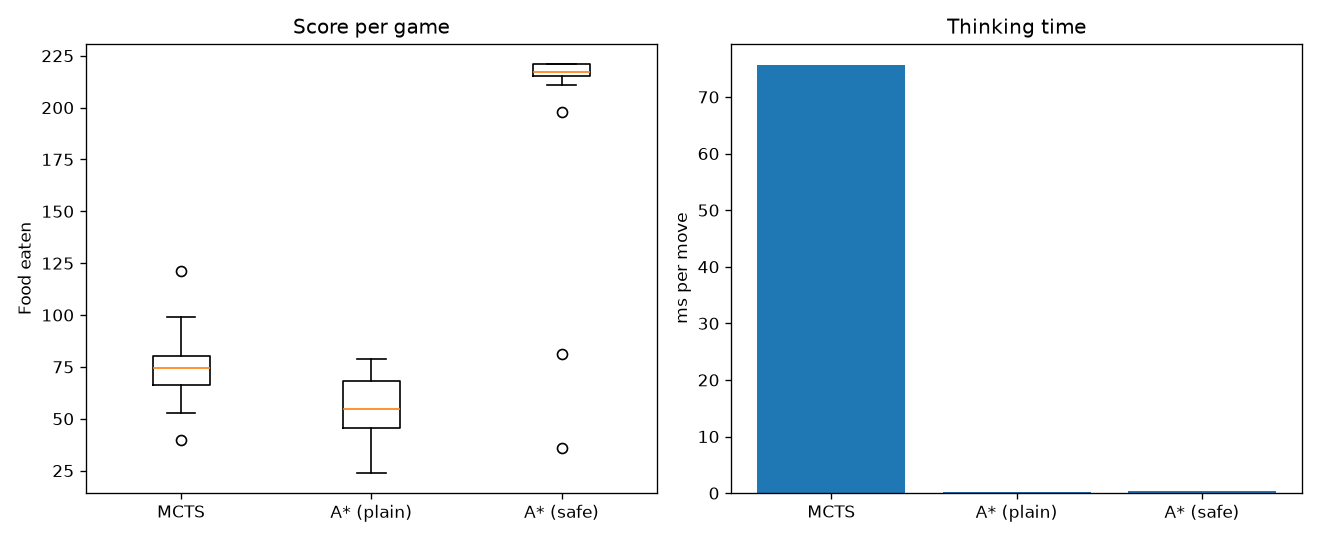
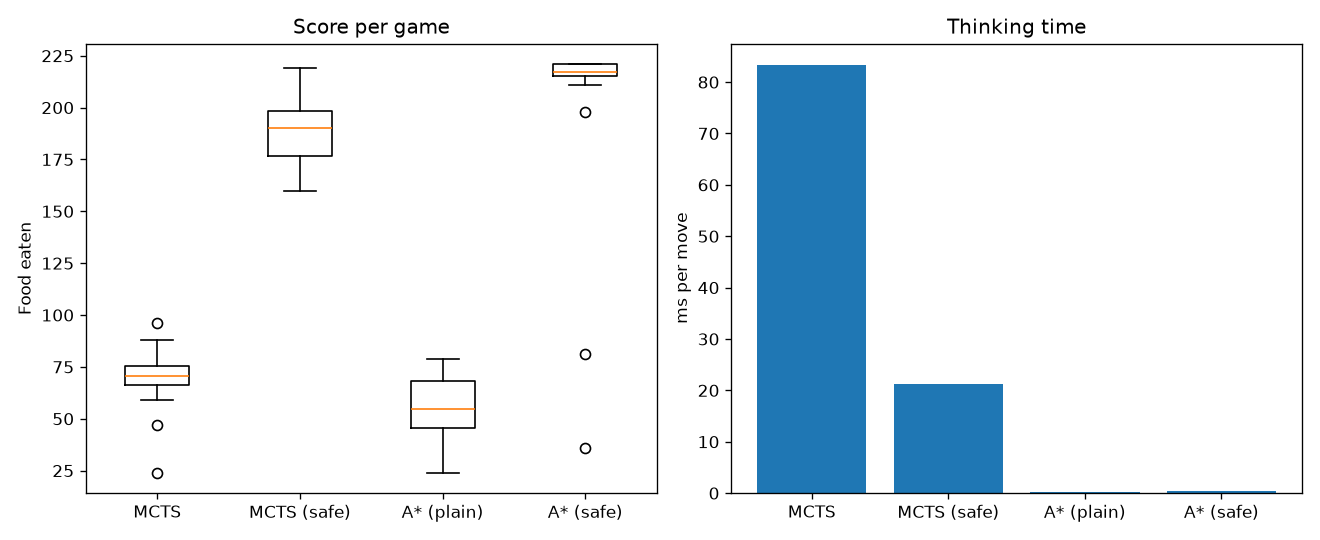
update mc safe

diff --git a/mcts.py b/mcts.py
@@ -12,6 +12,11 @@ current position and runs four phases many times:
 Food appears at random, so the tree is "open loop": nodes store statistics
 for a sequence of moves, and every iteration re-simulates that sequence from
 the root with freshly sampled food positions.
+
+Safe mode borrows the rule that makes safe A* strong: a snake whose head can
+still reach its tail can always escape by following it. With safe=True the
+agent only searches moves that keep the tail reachable (when any exist), and
+rollouts that end with the tail unreachable are penalised.
 """
 
 import math
@@ -140,7 +145,8 @@ class Node:
 
 class MCTSAgent:
     def __init__(self, iterations=300, time_limit=None, rollout_depth=30,
-                 exploration=1.0, gamma=0.97, seed=None):
+                 exploration=1.0, gamma=0.97, seed=None, safe=False):
+        self.safe = safe
         self.iterations = iterations
         self.time_limit = time_limit  # Seconds per move; stops early if reached before `iterations`.
         self.rollout_depth = rollout_depth
@@ -151,19 +157,31 @@ class MCTSAgent:
     def choose_action(self, game):
         root_state = SnakeState.from_game(game, self.rng)
         safe = [a for a in root_state.legal_actions() if root_state.is_safe(a)]
+        if self.safe:
+            # Keep only moves after which the head can still reach the tail, if there are any.
+            safe = [a for a in safe if self._tail_reachable_after(root_state, a)] or safe
         if len(safe) <= 1:
             return safe[0] if safe else root_state.direction
 
         root = Node()
         deadline = time.perf_counter() + self.time_limit if self.time_limit else None
         for _ in range(self.iterations):
-            self._iterate(root, root_state)
+            self._iterate(root, root_state, safe)
             if deadline and time.perf_counter() >= deadline:
                 break
 
         return max(root.children, key=lambda a: root.children[a].visits)
 
-    def _iterate(self, root, root_state):
+    @staticmethod
+    def _tail_reachable_after(state, action):
+        from astar import tail_reachable  # Imported here because astar.py imports this module.
+
+        nxt = state.next_head(action)
+        body = list(state.snake)
+        body = [nxt] + (body if nxt == state.food else body[:-1])
+        return tail_reachable(body, state.board_size)
+
+    def _iterate(self, root, root_state, root_actions):
         state = root_state.copy()
         node = root
         path = [root]
@@ -172,7 +190,7 @@ class MCTSAgent:
 
         # 1. Selection + 2. Expansion
         while state.alive:
-            actions = state.legal_actions()
+            actions = root_actions if node is root else state.legal_actions()
             untried = [a for a in actions if a not in node.children]
             if untried:
                 action = self.rng.choice(untried)
@@ -244,5 +262,9 @@ class MCTSAgent:
         food_r, food_c = state.food
         closeness = 1.0 - (abs(head_r - food_r) + abs(head_c - food_c)) / (2 * n)
         # Heavily penalise positions where the snake has boxed itself in.
-        trapped = -0.5 if state.reachable_area() < len(state.snake) else 0.0
+        if self.safe:
+            from astar import tail_reachable
+            trapped = 0.0 if tail_reachable(list(state.snake), n) else -0.5
+        else:
+            trapped = -0.5 if state.reachable_area() < len(state.snake) else 0.0
         return 0.3 * closeness + trapped

diff --git a/snake_game.py b/snake_game.py
@@ -272,9 +272,10 @@ def play_game(agent, seed, board_size=15):
 
 
 def make_agent(name, seed=None, iterations=300, time_limit=None, rollout_depth=30):
-    if name == "mcts":
+    if name in ("mcts", "mcts-safe"):
         from mcts import MCTSAgent
-        return MCTSAgent(iterations=iterations, time_limit=time_limit, rollout_depth=rollout_depth, seed=seed)
+        return MCTSAgent(iterations=iterations, time_limit=time_limit, rollout_depth=rollout_depth, seed=seed,
+                         safe=(name == "mcts-safe"))
     from astar import AStarAgent
     return AStarAgent(safe=(name == "astar-safe"))
 
@@ -295,8 +296,9 @@ if __name__ == "__main__":
     import time
 
     parser = argparse.ArgumentParser(description="Snake game controlled by Monte Carlo Tree Search or A*.")
-    parser.add_argument("--agent", choices=["mcts", "astar", "astar-safe"], default="mcts",
-                        help="mcts: Monte Carlo Tree Search, astar: plain A*, astar-safe: A* that checks it can reach its tail.")
+    parser.add_argument("--agent", choices=["mcts", "mcts-safe", "astar", "astar-safe"], default="mcts",
+                        help="mcts: Monte Carlo Tree Search, astar: plain A*, "
+                             "*-safe: only make moves after which the snake can still reach its tail.")
     parser.add_argument("--iterations", type=int, default=300, help="MCTS iterations per move.")
     parser.add_argument("--time-limit", type=float, default=0.2, help="Max thinking time per move in seconds (0 = no limit).")
     parser.add_argument("--rollout-depth", type=int, default=30, help="Steps simulated in each rollout.")

diff --git a/compare.py b/compare.py
@@ -15,7 +15,7 @@ from concurrent.futures import ProcessPoolExecutor
 
 from snake_game import make_agent, play_game
 
-AGENT_LABELS = {"mcts": "MCTS", "astar": "A* (plain)", "astar-safe": "A* (safe)"}
+AGENT_LABELS = {"mcts": "MCTS", "mcts-safe": "MCTS (safe)", "astar": "A* (plain)", "astar-safe": "A* (safe)"}
 
 
 def run_one(job):

diff --git a/README.md b/README.md
@@ -13,7 +13,9 @@ Author : Po Kai Su
 The snake is controlled by a search algorithm instead of a human, and we compare two of them:
 
 - **Monte Carlo Tree Search (MCTS)** – before every move, simulate many possible futures (including where food might appear) and pick the move that leads to the best outcomes on average.
-- **A\* search** – plan the shortest path to the food and follow it, in a plain and a "safe" variant.
+- **A\* search** – plan the shortest path to the food and follow it.
+
+Each comes in a plain and a **safe** variant. Safe mode adds one rule: never make a move after which the snake's head can no longer reach its own tail.
 
 This project grew out of our earlier final project, where the snake was controlled by body posture captured with a webcam (Mediapipe + an MLP classifier). Here the webcam is replaced by search algorithms.
 
@@ -21,7 +23,7 @@ This project grew out of our earlier final project, where the snake was controll
 | File | Description |
 | --- | --- |
 | [snake_game.py](snake_game.py) | The game (pygame) and the entry point for watching an agent play |
-| [mcts.py](mcts.py) | Monte Carlo Tree Search agent, plus the fast game simulator it uses |
+| [mcts.py](mcts.py) | Monte Carlo Tree Search agent (plain and safe), plus the fast game simulator it uses |
 | [astar.py](astar.py) | A\* agent, plain and safe variants |
 | [compare.py](compare.py) | Runs every agent on the same games and prints a results table |
 | `image/`, `sound/` | Game graphics and sound effects |
@@ -39,6 +41,10 @@ The move whose node was visited most is played.
 Rewards: +1 for eating food, −1 for dying, discounted by 0.97 per step. If a rollout ends with the snake still alive, the position is scored by how close the head is to the food, and penalised if a flood fill shows the snake has trapped itself in a space smaller than its own length.
 
 Food appears at random, so the tree is *open-loop*: each node keeps statistics for a sequence of moves, and every iteration replays that sequence with newly sampled food.
+
+**MCTS (safe)** adds the tail rule from safe A\* in two places:
+1. **Before searching**, it removes every move after which the head can no longer reach the tail (if at least one move is left), so the tree only explores safe first moves. If only one safe move remains, it is played without searching.
+2. **When a rollout ends**, the position is penalised if the head cannot reach the tail. This replaces the flood-fill check, which only counts free cells and can miss traps.
 
 ### How A* chooses a move
 The A\* agent ([astar.py](astar.py)) finds the shortest path from the head to the food, with cost = steps taken and heuristic = Manhattan distance. The search is time-aware: the body segment `k` cells behind the head leaves its cell after `len(snake) - k` steps, so a path may go through cells the tail will have vacated by the time the head gets there.
@@ -64,6 +70,9 @@ Watch an agent play (click **START THE GAME**):
 python snake_game.py --agent mcts
 ```
 ```bash
+python snake_game.py --agent mcts-safe
+```
+```bash
 python snake_game.py --agent astar-safe
 ```
 
@@ -79,7 +88,7 @@ python compare.py --games 20 --csv results.csv --plot compare.png
 
 | Option | Default | Description |
 | --- | --- | --- |
-| `--agent` | mcts | `mcts`, `astar` or `astar-safe` |
+| `--agent` | mcts | `mcts`, `mcts-safe`, `astar` or `astar-safe` |
 | `--iterations` | 300 | MCTS iterations per move |
 | `--time-limit` | 0.2 | Max thinking time per move in seconds (0 = no limit) |
 | `--rollout-depth` | 30 | Steps simulated in each rollout |
@@ -88,18 +97,21 @@ python compare.py --games 20 --csv results.csv --plot compare.png
 | `--seed` | random | Random seed |
 
 ### Results
-20 games per agent on the 15×15 board, seeds 0–19 (`python compare.py --games 20`). MCTS used 300 iterations per move with no time limit. The highest possible score is 222: the board has 225 cells and the snake starts 3 long.
+20 games per agent on the 15×15 board, seeds 0–19 (`python compare.py --games 20`). Both MCTS agents used 300 iterations per move with no time limit. The highest possible score is 222: the board has 225 cells and the snake starts 3 long.
 
 | Agent | Avg score | Std | Min | Max | Avg steps | ms/move | Died | Stopped (looping) |
 | --- | --- | --- | --- | --- | --- | --- | --- | --- |
-| MCTS | 74.9 | 17.1 | 40 | 121 | 1318 | 75.65 | 20 | 0 |
-| A\* (plain) | 55.5 | 15.3 | 24 | 79 | 694 | 0.13 | 20 | 0 |
+| MCTS | 69.8 | 15.1 | 24 | 96 | 1211 | 83.33 | 20 | 0 |
+| MCTS (safe) | 188.1 | 16.3 | 160 | 219 | 8559 | 21.33 | 2 | 18 |
+| A\* (plain) | 55.5 | 15.3 | 24 | 79 | 694 | 0.12 | 20 | 0 |
 | A\* (safe) | 201.4 | 49.7 | 36 | 221 | 8444 | 0.40 | 2 | 18 |
 
-"Stopped (looping)" means the snake was still alive but went 900 steps without eating, so the game was ended. For A\* (safe), this happened at scores of 211–221, with the board almost full. Times per move were measured with games running in parallel; a single MCTS game on its own takes about 30 ms per move.
+"Stopped (looping)" means the snake was still alive but went 900 steps without eating, so the game was ended. This happened to the safe agents when they could find no safe way to the food, usually late in the game with the board mostly full: at scores of 161–219 for MCTS (safe), and 211–221 for A\* (safe) except one game that got stuck at 81. Times per move were measured with games running in parallel, so they are higher than for a single game on its own.
 
 **What we found**
 - **Plain A\* is fast but short-sighted.** It always takes the shortest path, so it soon closes off parts of the board with its own body and traps itself.
-- **MCTS beats plain A\*** (75 vs 56 on average) because its simulations can see some traps coming. But it looks only about 30 steps ahead and only gets 300 simulations per move, so once the snake is long, a trap often closes beyond that horizon. It is also about 500× slower per move.
-- **Safe A\* scores best by far.** The "can I still reach my tail?" check is an exact safety rule for this game, and it is much stronger than what a rollout can estimate. It only failed when random food appeared inside a one-cell-wide corridor the snake was already in: the snake had to eat it, grew by one and hit a dead end. A\* plans only for the food that is already on the board, while MCTS also samples where new food may appear.
-- **Takeaway:** a good hand-written rule (tail reachability) beats general-purpose search here. MCTS is the more general method: it needs no rules specific to the game, only a simulator, and it improves with more iterations or a better rollout policy. One idea is to use the safe-A\* rule as the MCTS rollout policy.
+- **Plain MCTS beats plain A\*** (70 vs 56 on average) because its simulations can see some traps coming. But it looks only about 30 steps ahead and only gets 300 simulations per move, so once the snake is long, a trap often closes beyond that horizon. It is also hundreds of times slower per move.
+- **The tail rule is the biggest improvement for both methods.** "Can I still reach my tail?" is an exact safety check for this game, and much stronger than what a 30-step rollout can estimate. It raised MCTS from 70 to 188 and A\* from 56 to 201.
+- **Safe MCTS is also 4× faster than plain MCTS**, because it skips the search whenever only one safe move is left, and its rollouts no longer waste time on moves that lead into traps.
+- **Safe A\* has the higher average and best games; safe MCTS is more consistent.** Safe MCTS never scored below 160 (standard deviation 16), while safe A\* died once at 36 and got stuck once at 81 (standard deviation 50). Safe A\* always takes the shortest path, so it once followed a one-cell-wide corridor where new food then appeared; it had to eat it, grew by one and hit a dead end. MCTS simulates where new food may appear, so it is less likely to walk into such a corridor. But its rollouts head for the food greedily, so it fills the board less neatly and gets stuck stalling earlier.
+- **Takeaway:** the hand-written tail rule matters more than the choice of search. With it, A\* is best for raw score and speed, and MCTS is best for reliability. Possible next steps for MCTS: more iterations, or using the tail rule inside the rollouts as well.
